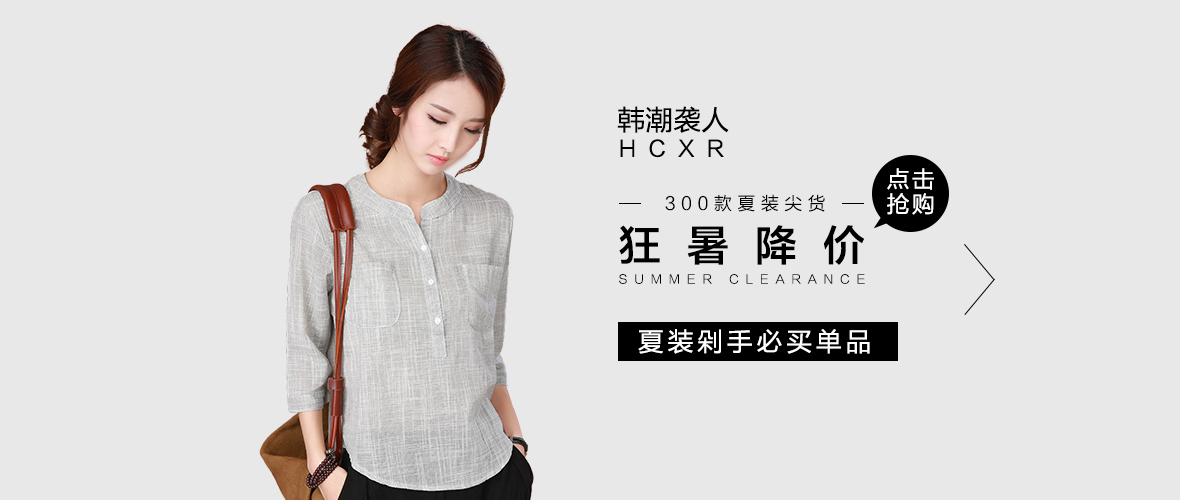
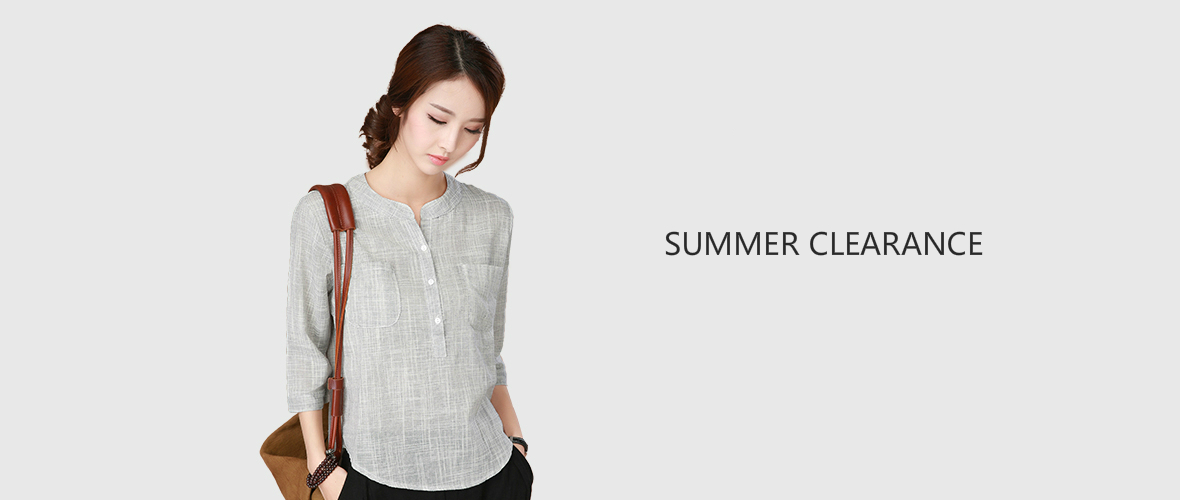
add pic and change some english

diff --git a/target/tmall_ssm/css/fore/style.css b/target/tmall_ssm/css/fore/style.css
@@ -27,7 +27,7 @@ nav.top {
 }
 
 .redColor {
-	color: #C40000;
+	color: #c40000;
 }
 
 .boldWord {
